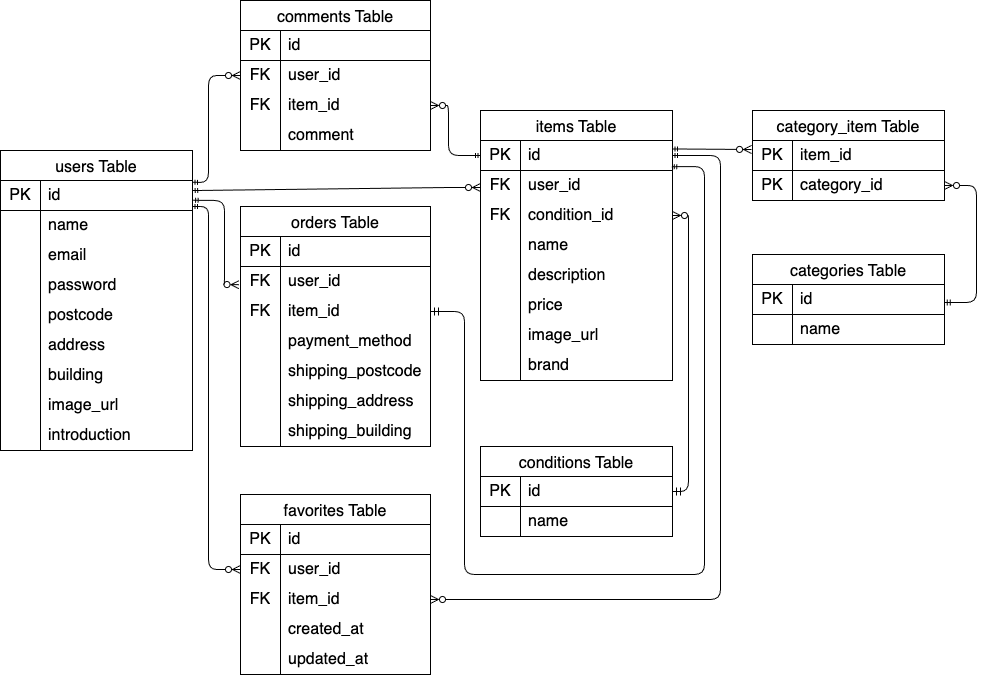
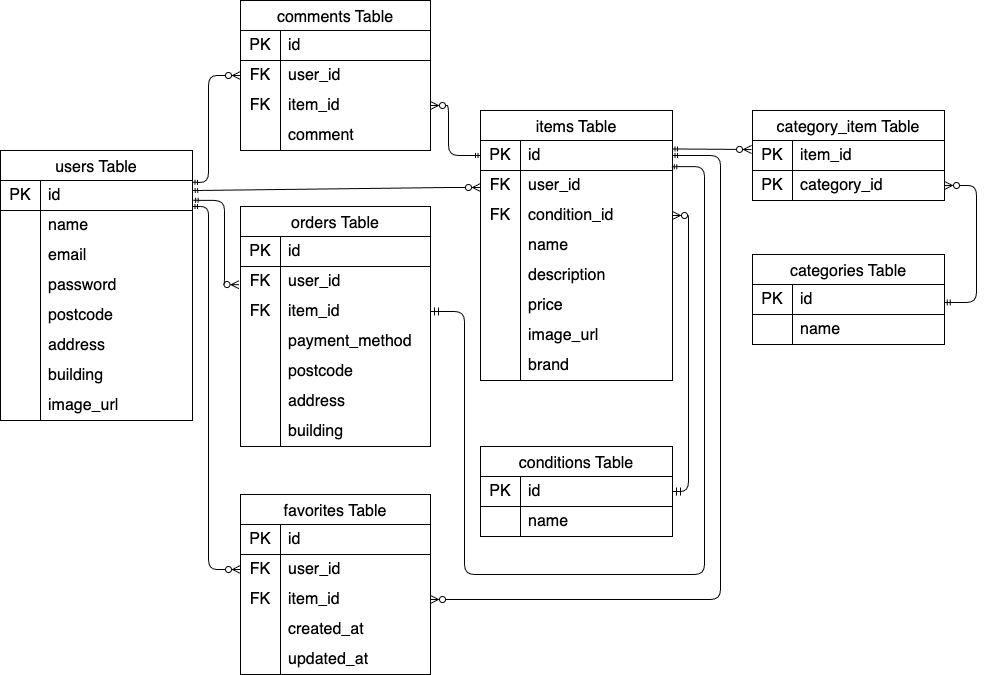
docs: READMEのテーブル定義修正とデータベース設計図の更新

diff --git a/README.md b/README.md
@@ -14,7 +14,7 @@
 - **フレームワーク**: Laravel 10.50.2
 - **サーバー**: nginx 1.21.1
 - **データベース**: MySQL 8.0.26
-- **インフラ/管理ツール**: 
+- **インフラ/管理ツール**:
   - Docker / Docker Compose
   - phpMyAdmin
   - GitHub
@@ -85,29 +85,89 @@ php artisan migrate:fresh --seed
 - メールアドレス1: test@example.com / パスワード: password
 - メールアドレス2: test2@example.com / パスワード: password
 
-## 3. データベース設計 (ER図)
+## 3. データベース設計
 データの整合性を保つため、以下の設計に基づいています。
-
-## 4. 設計書
+### ER図
 ![ER図](./docs/database-design.png)
-- [テーブル仕様書](https://docs.google.com/spreadsheets/d/1Rh6mHRqrsmxTM85r7PLgx4rUoGHsw_PO7napCECmD4k/edit?gid=1188247583#gid=1188247583)
+### テーブル仕様書
 
-## 5. 主要機能一覧
-- ユーザー登録・ログイン機能
-- 商品一覧表示・詳細表示
-- 商品出品機能（画像アップロード含む）
-- 商品購入機能（Stripe決済等）
-- プロフィール編集機能
-- お気に入り登録・解除機能
-- コメント投稿機能
-- 商品検索機能
+#### usersテーブル (利用ユーザー)
+| カラム名 | 型 | PK | UNIQUE | NOT NULL | 説明 |
+| :--- | :--- | :---: | :---: | :---: | :--- |
+| id | unsigned bigint | ○ | | ○ | ユーザーID |
+| name | varchar(255) | | | ○ | ユーザー名 |
+| email | varchar(255) | | ○ | ○ | メールアドレス |
+| password | varchar(255) | | | ○ | パスワード |
+| postcode | varchar(255) | | | | 郵便番号 |
+| address | varchar(255) | | | | 住所 |
+| building | varchar(255) | | | | 建物名 |
+| image_url | varchar(255) | | | | プロフィール画像パス |
 
-### テーブル一覧
-* **users**: ユーザー認証・プロフィール情報（配送先住所、プロフィール画像）
-* **items**: 出品商品データ（出品者・状態・カテゴリ・ブランド等の紐付け）
-* **favorites**: お気に入り登録機能（ユーザーと商品の重複登録を制限）
-* **comments**: 商品詳細ページでのコメント投稿
-* **conditions**: 商品の状態（「良好」「傷あり」などの選択肢）
-* **categories**: 商品のカテゴリ（「家電」「メンズ」などの選択肢）
-* **category_item**: 商品とカテゴリを紐付ける中間テーブル（多対多）
-* **orders**: 商品の注文・配送情報（購入時の支払い方法・配送先を保持）
+#### itemsテーブル (出品商品)
+| カラム名 | 型 | PK | NOT NULL | FK | 説明 |
+| :--- | :--- | :---: | :---: | :--- | :--- |
+| id | unsigned bigint | ○ | ○ | | 商品ID |
+| user_id | unsigned bigint | | ○ | users(id) | 出品者ID |
+| condition_id | unsigned bigint | | ○ | conditions(id) | 商品状態ID |
+| name | varchar(255) | | ○ | | 商品名 |
+| description | text | | ○ | | 商品説明 |
+| price | unsigned int | | ○ | | 販売価格 |
+| image_url | varchar(255) | | ○ | | 商品画像パス |
+| brand | varchar(255) | | | | ブランド名 |
+
+#### categoriesテーブル (カテゴリー名)
+| カラム名 | 型 | PK | NOT NULL | 説明 |
+| :--- | :--- | :---: | :---: | :--- |
+| id | unsigned bigint | ○ | ○ | カテゴリーID |
+| name | varchar(255) | | ○ | カテゴリー名 |
+
+#### category_itemテーブル (商品-カテゴリー中間テーブル)
+| カラム名 | 型 | PK | NOT NULL | FK | 説明 |
+| :--- | :--- | :---: | :---: | :--- | :--- |
+| item_id | unsigned bigint | ○ | ○ | items(id) | 商品ID |
+| category_id | unsigned bigint | ○ | ○ | categories(id) | カテゴリーID |
+
+#### conditionsテーブル (商品状態)
+| カラム名 | 型 | PK | NOT NULL | 説明 |
+| :--- | :--- | :---: | :---: | :--- |
+| id | unsigned bigint | ○ | ○ | 状態ID |
+| name | varchar(255) | | ○ | 状態名（良好、傷あり等） |
+
+#### ordersテーブル (注文情報)
+| カラム名 | 型 | PK | UNIQUE | NOT NULL | 説明 |
+| :--- | :--- | :---: | :---: | :---: | :--- |
+| id | unsigned bigint | ○ | | ○ | 注文ID |
+| user_id | varchar(255) | | | ○ | 購入者ID |
+| item_id | varchar(255) | | ○ | ○ | 商品ID |
+| payment_method | varchar(255) | | | ○ | 支払い方法 |
+| shipping_postcode | varchar(255) | | | ○ | 配送先郵便番号 |
+| shipping_address | varchar(255) | | | ○ | 配送先住所 |
+| shipping_building | varchar(255) | | | | 配送先建物名 |
+
+#### favoritesテーブル (お気に入り)
+| カラム名 | 型 | PK | NOT NULL | FK | 説明 |
+| :--- | :--- | :---: | :---: | :--- | :--- |
+| id | unsigned bigint | ○ | ○ | | ID |
+| user_id | unsigned bigint | | ○ | users(id) | ユーザーID |
+| item_id | unsigned bigint | | ○ | items(id) | 商品ID |
+| created_at | timestamp | | | | 作成日時 |
+| updated_at | timestamp | | | | 更新日時 |
+
+#### commentsテーブル (コメント)
+| カラム名 | 型 | PK | NOT NULL | FK | 説明 |
+| :--- | :--- | :---: | :---: | :--- | :--- |
+| id | unsigned bigint | ○ | ○ | | ID |
+| user_id | unsigned bigint | | ○ | users(id) | ユーザーID |
+| item_id | unsigned bigint | | ○ | items(id) | 商品ID |
+| comment | text | | ○ | | コメント内容 |
+
+
+## 4. 主要機能一覧
+- ユーザー認証・認可: 登録、ログイン、メール認証、ログアウト機能
+- 商品一覧・詳細: 全商品表示、自分以外の出品物のみ表示（マイリスト）、詳細情報閲覧
+- 検索・絞り込み: 商品名でのキーワード検索機能
+- 商品出品: 画像アップロード、複数カテゴリ選択、状態選択、価格設定
+- お気に入り機能: 商品詳細からの登録・解除、マイページでの一覧表示
+- コメント機能: 出品者への質問や購入希望者との交流
+- 購入・決済機能: Stripe を利用したクレジットカード決済、配送先情報の入力
+- プロフィール管理: 住所、プロフィール画像の変更
